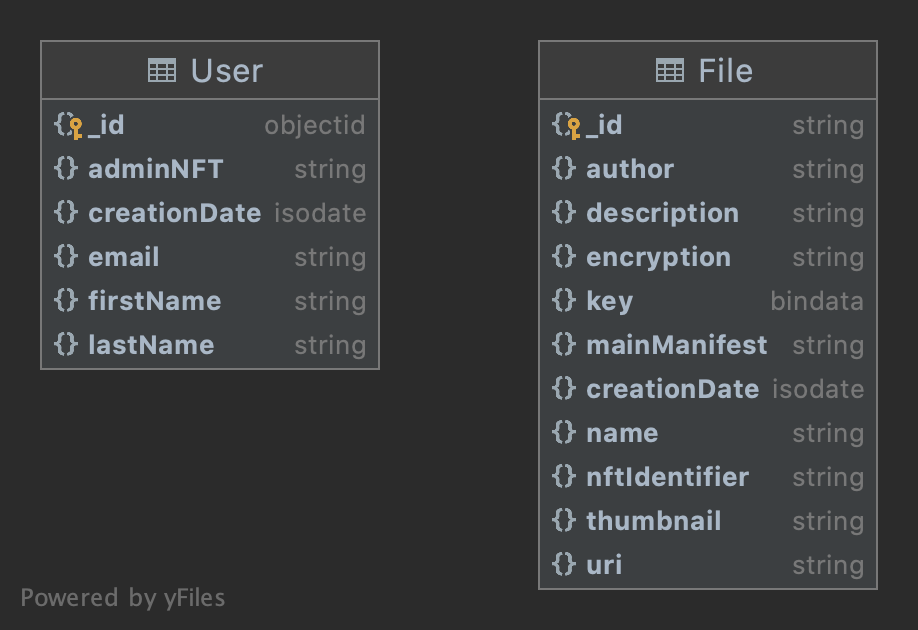
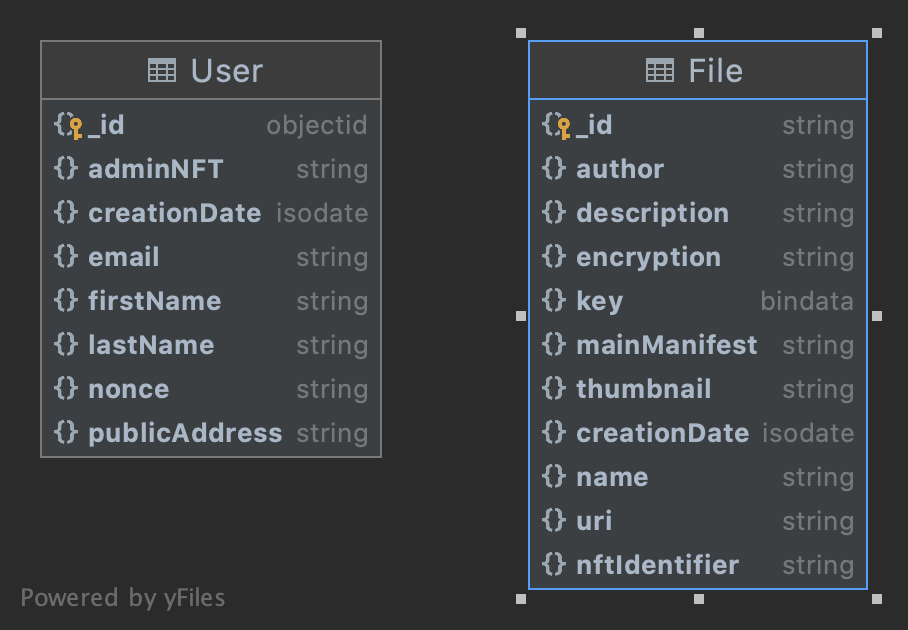
updating docs; refactoring;

diff --git a/rair-front-master/src/App.js b/rair-front-master/src/App.js
@@ -24,6 +24,7 @@ const App = () => {
       if (window.ethereum) {
         if (!currentToken) {
           let web3 = Web3 | undefined; // Will hold the web3 instance
+          let user = null;
 
           try {
             if (!web3) {
@@ -33,9 +34,11 @@ const App = () => {
 
             const publicAddress = await web3.eth.getCoinbase();
 
-            // find user
-            let user = await fetch(`/api/users/${ publicAddress }`)
-              .then(blob => blob.json());
+            if (publicAddress) {
+              // find user
+              user = await fetch(`/api/users/${ publicAddress }`)
+                .then(blob => blob.json());
+            }
 
             if (!user) {
               user = await fetch('/api/users', {
@@ -49,7 +52,7 @@ const App = () => {
                 .then(blob => blob.json());
             }
 
-            const msg = `Sign in for RAIR by key: ${ user.key }`;
+            const msg = `Sign in for RAIR by nonce: ${ user.nonce }`;
 
             // get signature
             const signature = await web3.eth.personal.sign(msg, publicAddress, '');
@@ -73,6 +76,12 @@ const App = () => {
             setAdminRights(false)
             await Swal.fire('Error', 'Something went wrong', 'error')
           }
+        } else {
+          // get address
+          const user = await fetch(`/api/auth/user_info?token=${currentToken}`)
+            .then(blob => blob.json());
+          setEthAddress(user.publicAddress);
+          setAdminRights(false);
         }
       }
     })();
@@ -80,9 +89,9 @@ const App = () => {
 
   useEffect( () => {
     (async () => {
-      const currentToken = localStorage.getItem('token');
+      // const currentToken = localStorage.getItem('token');
 
-      if (!currentToken) {
+      // if (!currentToken) {
         // Sign the admin rights challenge
         if (!adminRights && ethAddress !== undefined) {
           fetch('/api/auth/get_challenge/' + ethAddress)
@@ -106,19 +115,19 @@ const App = () => {
                 })
             })
         }
-      } else {
-        try {
-          // get address
-          const user = await fetch(`/api/auth/user_info?token=${currentToken}`)
-            .then(blob => blob.json());
-          setEthAddress(user.publicAddress);
-          setAdminRights(true);
-        } catch (e) {
-          console.log(e);
-          setAdminRights(false)
-          await Swal.fire('Error', 'Something went wrong', 'error')
-        }
-      }
+      // } else {
+      //   try {
+      //     // get address
+      //     const user = await fetch(`/api/auth/user_info?token=${currentToken}`)
+      //       .then(blob => blob.json());
+      //     setEthAddress(user.publicAddress);
+      //     setAdminRights(true);
+      //   } catch (e) {
+      //     console.log(e);
+      //     setAdminRights(false)
+      //     await Swal.fire('Error', 'Something went wrong', 'error')
+      //   }
+      // }
     })();
   }, [adminRights, ethAddress])
 
@@ -130,7 +139,7 @@ const App = () => {
       .then(res => {
         setVideos(res);
       })
-  }, [refresh])
+  }, [refresh, ethAddress])
 
   return (
     <div className='bg-light align-top text-dark w-100 h-100' style={{minHeight: '100vh', minWidth: '100vw'}}>

diff --git a/demo-decrypt-node/bin/routes/users.js b/demo-decrypt-node/bin/routes/users.js
@@ -3,18 +3,26 @@ const express = require('express')
 module.exports = context => {
   const router = express.Router()
 
-  router.post('/', async (req, res) => {
-    const { publicAddress, adminNFT } = req.body;
-    let user = await context.db.User.create({ publicAddress, adminNFT });
+  router.post('/', async (req, res, next) => {
+    try {
+      const { publicAddress, adminNFT } = req.body;
+      let user = await context.db.User.create({ publicAddress, adminNFT });
 
-    res.json(user);
+      res.json(user);
+    } catch (e) {
+      next(e);
+    }
   });
 
-  router.get('/:publicAddress', async (req, res) => {
-    const publicAddress = req.params.publicAddress;
-    const user = await context.db.User.findOne({ publicAddress }, { adminNFT: 0 });
+  router.get('/:publicAddress', async (req, res, next) => {
+    try {
+      const publicAddress = req.params.publicAddress;
+      const user = await context.db.User.findOne({ publicAddress }, { adminNFT: 0 });
 
-    res.json(user);
+      res.json(user);
+    } catch (e) {
+      next(e);
+    }
   });
 
   return router

diff --git a/demo-decrypt-node/bin/routes/auth.js b/demo-decrypt-node/bin/routes/auth.js
@@ -210,7 +210,7 @@ module.exports = context => {
       });
     }
 
-    const msg = `Sign in for RAIR by key: ${user.key}`;
+    const msg = `Sign in for RAIR by nonce: ${user.nonce}`;
 
     // get the address from signature
     const nonceBufferHex = bufferToHex(Buffer.from(msg, 'utf8'));
@@ -226,10 +226,10 @@ module.exports = context => {
       });
     }
 
-    // Generate a new key for the user
-    const key = nanoid();
+    // Generate a new nonce for the user
+    const nonce = nanoid();
 
-    await context.db.User.updateOne({ publicAddress }, { $set: { key } });
+    await context.db.User.updateOne({ publicAddress }, { $set: { nonce } });
 
     jwt.sign(
       { eth_addr: publicAddress },

diff --git a/demo-decrypt-node/bin/models/user.js b/demo-decrypt-node/bin/models/user.js
@@ -9,7 +9,7 @@ const User = new Schema({
   firstName: { type: String, default: null },
   lastName: { type: String, default: null },
   publicAddress: { type: String, required: true, unique: true },
-  key: { type: String, default: () => nanoid() },
+  nonce: { type: String, default: () => nanoid() },
   creationDate: { type: Date, default: Date.now }
 }, { versionKey: false });
 
